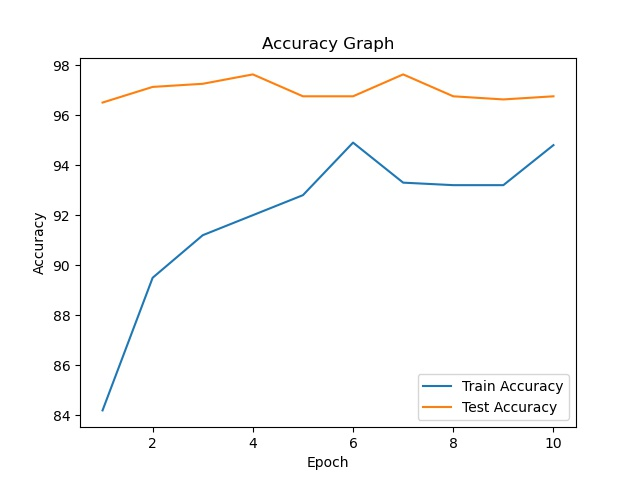
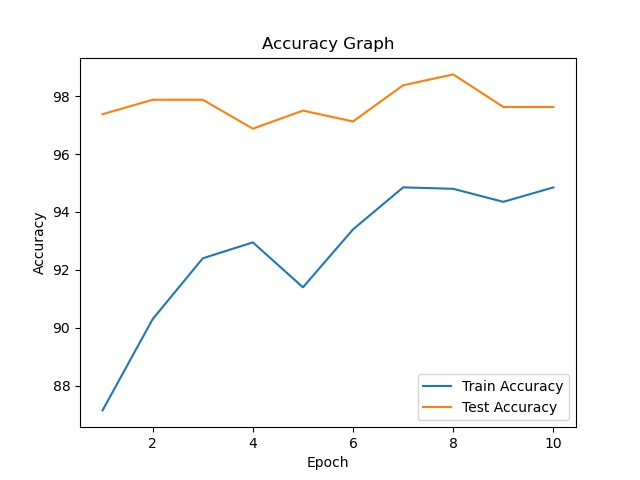
Second Training

diff --git a/Summary.md b/Summary.md
@@ -3,7 +3,7 @@
 ## Data
 |    | Description          | value      |
 |---:|:---------------------|:-----------|
-|  0 | Total Train Data Set | 1000       |
+|  0 | Total Train Data Set | 2000       |
 |  1 | Total Test Data Set  | 800        |
 |  2 | Total Classes        | 2          |
 |  3 | Class Names          | cats, dogs |
@@ -17,16 +17,16 @@
 ## Training
 |    |   epoch |   train_accuracy |   train_loss |   test_accuracy |   test_loss |   cats |   dogs |
 |---:|--------:|-----------------:|-------------:|----------------:|------------:|-------:|-------:|
-|  0 |       1 |             84.2 |     0.33791  |          96.5   |   0.118071  |  97.25 |  95.75 |
-|  1 |       2 |             89.5 |     0.258184 |          97.125 |   0.0922603 |  99.5  |  94.75 |
-|  2 |       3 |             91.2 |     0.233321 |          97.25  |   0.0894239 |  99    |  95.5  |
-|  3 |       4 |             92   |     0.223491 |          97.625 |   0.0773743 |  99.25 |  96    |
-|  4 |       5 |             92.8 |     0.189452 |          96.75  |   0.0748832 |  97.25 |  96.25 |
-|  5 |       6 |             94.9 |     0.13274  |          96.75  |   0.0780872 |  96    |  97.5  |
-|  6 |       7 |             93.3 |     0.181719 |          97.625 |   0.073408  |  99.25 |  96    |
-|  7 |       8 |             93.2 |     0.166228 |          96.75  |   0.0797006 |  95.25 |  98.25 |
-|  8 |       9 |             93.2 |     0.174482 |          96.625 |   0.0739485 |  95.75 |  97.5  |
-|  9 |      10 |             94.8 |     0.12911  |          96.75  |   0.0692526 |  97.5  |  96    |
+|  0 |       1 |            87.15 |     0.306915 |          97.375 |   0.0906639 |  99.5  |  95.25 |
+|  1 |       2 |            90.3  |     0.248476 |          97.875 |   0.0702674 |  99.5  |  96.25 |
+|  2 |       3 |            92.4  |     0.193455 |          97.875 |   0.0666303 |  98    |  97.75 |
+|  3 |       4 |            92.95 |     0.176566 |          96.875 |   0.082559  |  99.25 |  94.5  |
+|  4 |       5 |            91.4  |     0.204819 |          97.5   |   0.0659115 |  98.75 |  96.25 |
+|  5 |       6 |            93.4  |     0.151302 |          97.125 |   0.0697077 |  96    |  98.25 |
+|  6 |       7 |            94.85 |     0.130173 |          98.375 |   0.0522584 |  98.75 |  98    |
+|  7 |       8 |            94.8  |     0.124672 |          98.75  |   0.0481039 |  99    |  98.5  |
+|  8 |       9 |            94.35 |     0.138588 |          97.625 |   0.0577569 |  98.25 |  97    |
+|  9 |      10 |            94.85 |     0.12836  |          97.625 |   0.0576163 |  98    |  97.25 |
 ## Graphs
 ![](loss.jpg)
 ![](accuracy.jpg)
